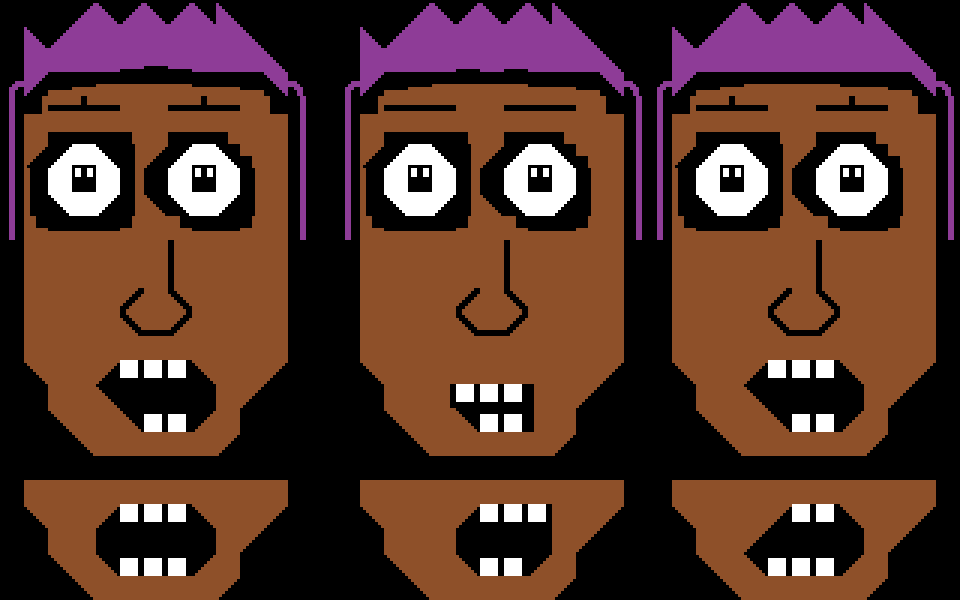
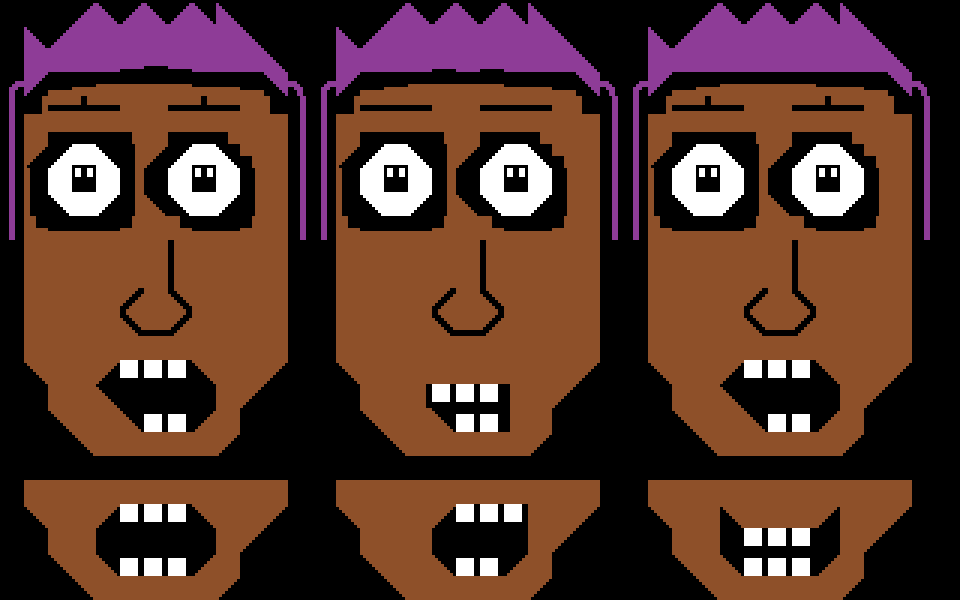
nigga fix

Changed region(s): [[0.3125, 0.0, 1.0, 0.78], [0.3438, 0.78, 1.0, 1.0], [0.4688, 0.09, 0.5312, 0.12]]

diff --git a/demos/demo1/stage10.py b/demos/demo1/stage10.py
@@ -12,18 +12,23 @@ class Stage10(Stage8):
 
 	def __init__(self):
 		super().__init__()
-		unshaved2 = TalkingHead(Constants.RES_PATH + "talking-heads/unshaved1.png")
-		self.head = unshaved2
+		shaved = TalkingHead(Constants.RES_PATH + "talking-heads/shaved.png", width=310, height=333, chin_y=480)
+		self.head = shaved
 		self.left = 0.8*Constants.WIDTH
-		self.start_frame = Stage9.START_FRAME
-		self.bubble = self.create_bubble("bubble3.png",3* Constants.WIDTH // 4)
+		self.start_frame = Stage10.START_FRAME
+		self.bubble = self.create_bubble("bubble3.png", 2* Constants.WIDTH // 3, 0.7*Constants.HEIGHT)
 
 		self.speech = arcade.load_sound(Constants.RES_PATH + "talking-heads/speech3.wav")
 		self.speech_end_frame = 830
 
 	def on_update(self, frame, klass):
 		if frame == Stage10.START_FRAME + 1:
-			print(self.__class__.__name__, Globals.get_duration(), "[frame", str(frame) + "]")
+			print(self.__class__.__name__ + " ", Globals.get_duration(), "[frame", str(frame) + "]")
+		relative_frame = frame - self.start_frame
+		if relative_frame < self.speech_end_frame:
+			self.head.talk(relative_frame)
+		else:
+			self.head.smile()
 
 	def on_draw(self, frame):
 		super().clear_screen(BLACK)

diff --git a/demos/demo1/stage8unshaved1.py b/demos/demo1/stage8unshaved1.py
@@ -42,7 +42,7 @@ class Stage8(Demo1Base):
 		else:
 			self.head.smile()
 
-	def create_bubble(self, relative_path, x, y=Constants.HEIGHT//2) -> Sprite:
+	def create_bubble(self, relative_path, x, y=0.6*Constants.HEIGHT) -> Sprite:
 		bubble = Sprite(Constants.RES_PATH + "talking-heads/" + relative_path)
 		bubble.scale = (0.5, 0.5)
 		bubble.center_y = y

diff --git a/demos/demo1/main.py b/demos/demo1/main.py
@@ -26,7 +26,7 @@ class Demo1(arcade.Window):
     def __init__(self):
         super().__init__(Constants.WIDTH, Constants.HEIGHT, "Demo 1", fullscreen=False)
 
-        self.frame = 0 * Stage8.START_FRAME
+        self.frame = 1 * Stage8.START_FRAME
         self.intro = Intro()
         self.stage1 = Stage1()
         self.stage2 = Stage2()
